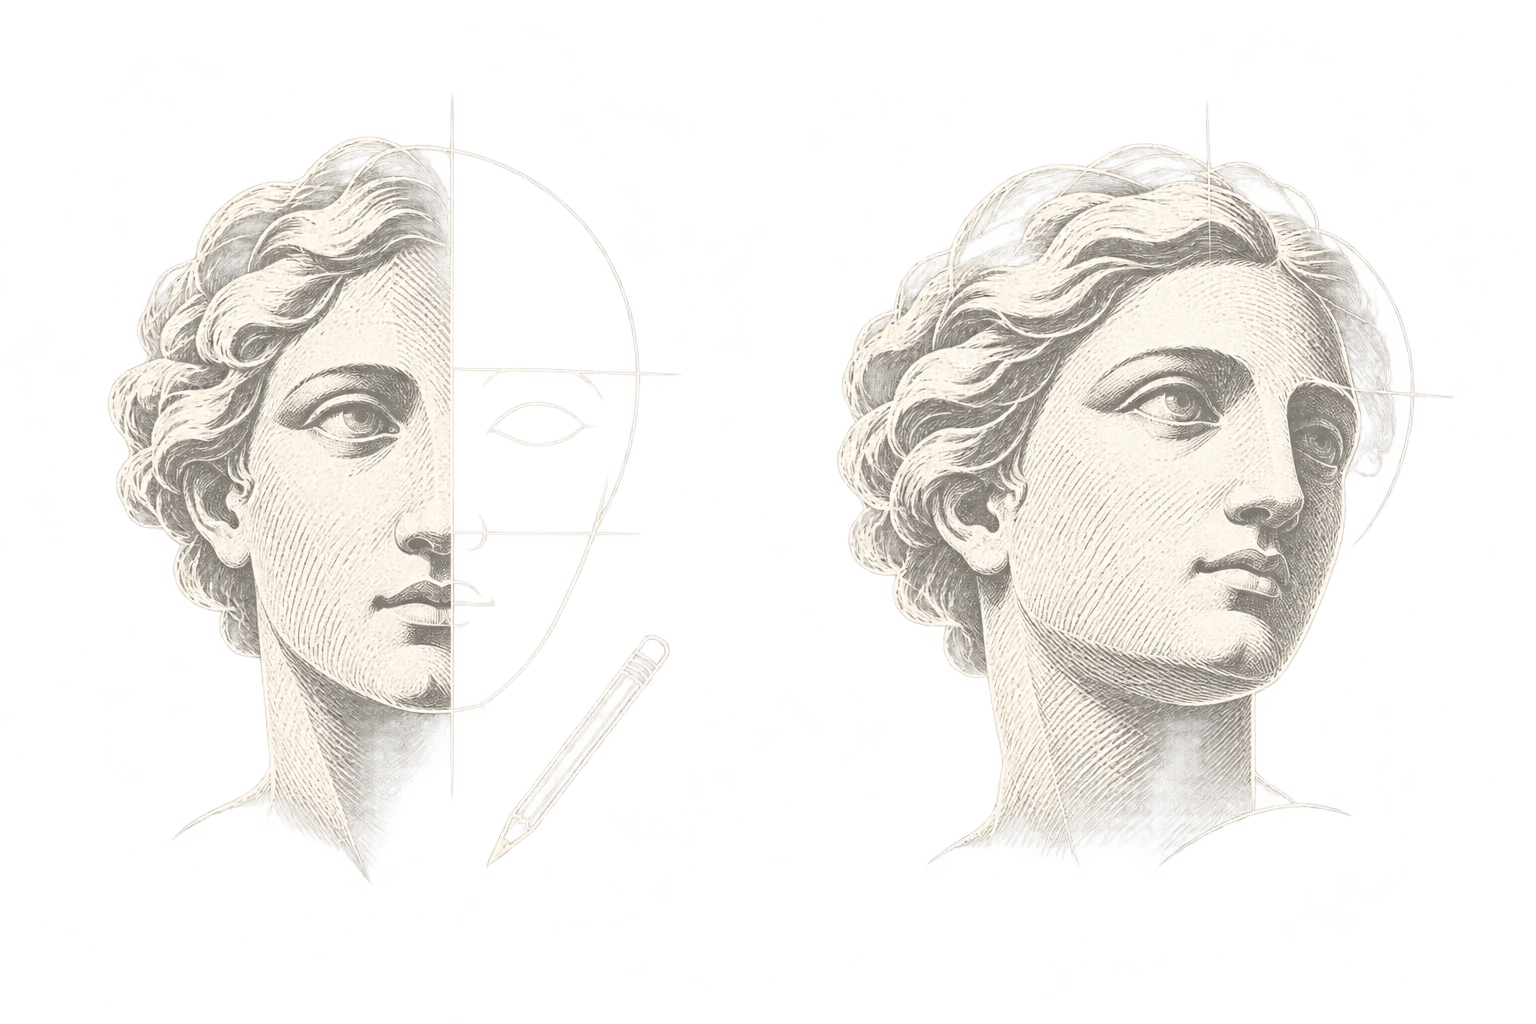
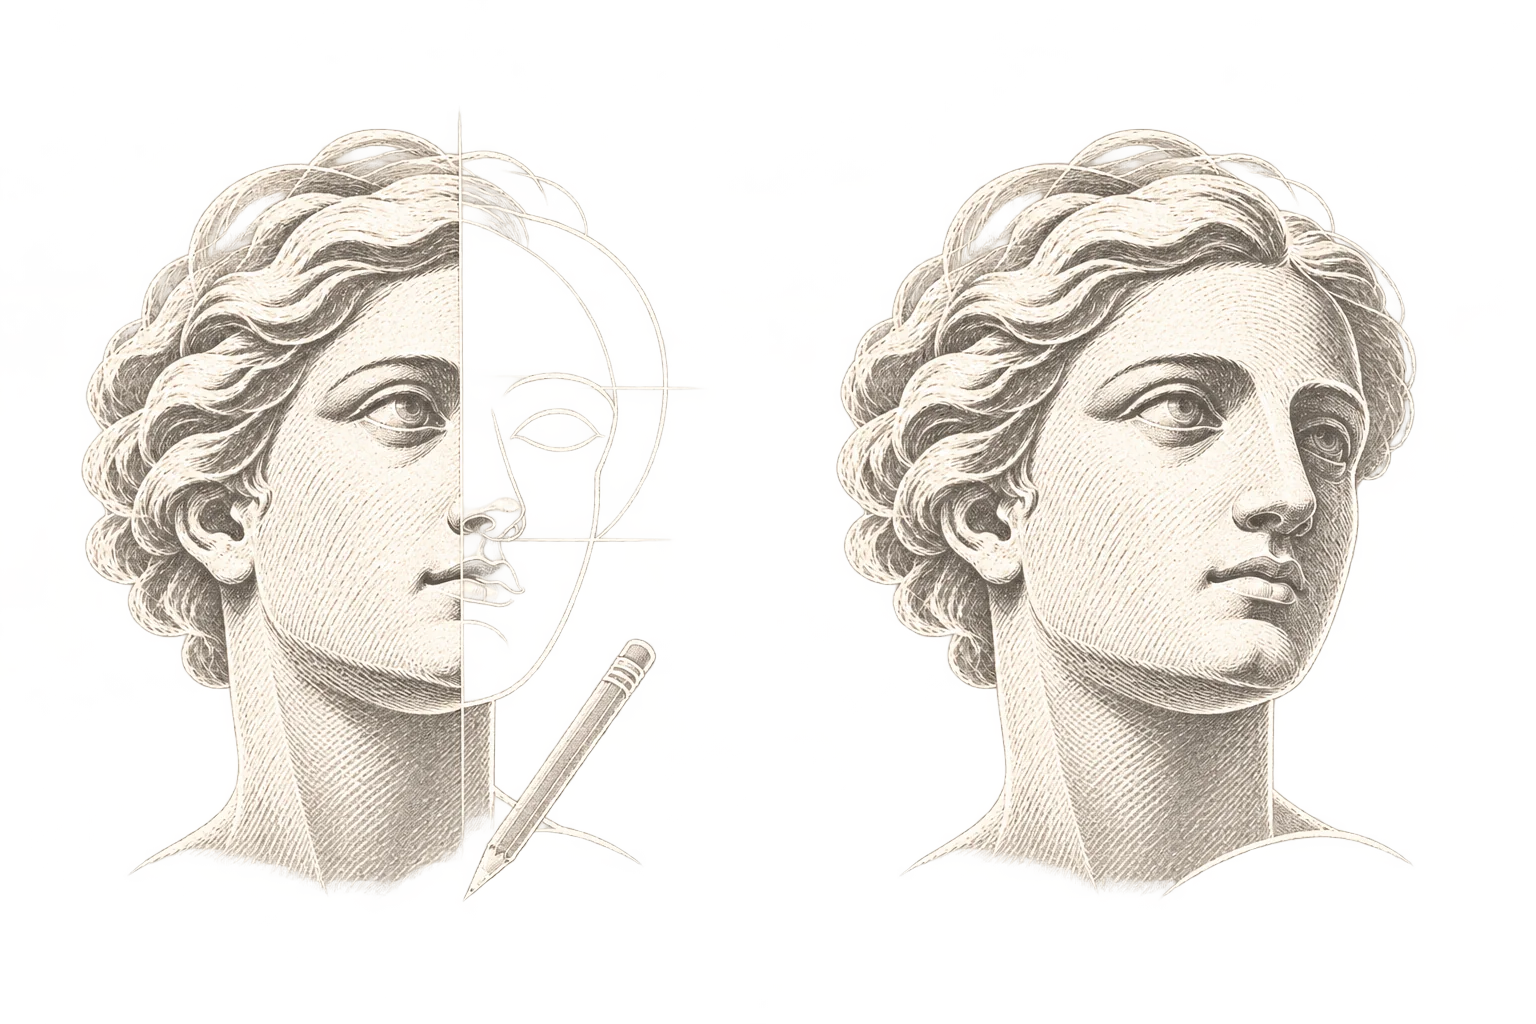
Simplify shared tools labels and match portrait study angles

diff --git a/css/decor.css b/css/decor.css
@@ -335,7 +335,7 @@ body:not([data-layout="side"]) .book-paper::before { content:""; position:absolu
 #standalone-status { color:var(--ink-soft); }
 
 /* Approved portrait studies: illustrations only, never painted over loaded artwork. */
-.empty-portrait { display:block; flex:none; width:150px; height:200px; background-image:url('../art/empty-studies.webp'); background-size:200% 100%; background-repeat:no-repeat; opacity:.96; margin:0 0 4px; }
+.empty-portrait { display:block; flex:none; width:150px; height:200px; background-image:url('../art/empty-studies.webp?v=matched-faces1'); background-size:200% 100%; background-repeat:no-repeat; opacity:.96; margin:0 0 4px; }
 .portrait-drawing { background-position:left center; }
 .portrait-reference { background-position:right center; }
 .pane .dropzone .empty-portrait { display:block; }
@@ -361,7 +361,6 @@ body:not([data-layout="side"]) .book-paper::before { content:""; position:absolu
  body[data-layout="side"] .pane .pane-tools,body[data-layout="side"] .pane .tools-toggle { display:none; }
  body[data-layout="side"] .pane.active { outline:1px solid var(--sinopia); outline-offset:0; }
  body[data-layout="side"] .shared-tools:not([hidden]) { display:flex; flex:1 0 auto; flex-direction:column; gap:10px; min-height:280px; padding:10px 12px; margin-top:8px; border:1px solid var(--rule); background:var(--grain),var(--slip); }
- .shared-tools h2 { font:italic 500 16px/1.2 var(--serif); }
  .shared-selector { display:grid; grid-template-columns:1fr 1fr; border:1px solid var(--rule); border-radius:8px; overflow:hidden; }
  .shared-selector .btn { border:0; border-radius:0; min-height:40px; font:600 16px/1.2 var(--serif); }
  .shared-selector .btn[aria-pressed="true"] { background:#f1dc7a66; box-shadow:inset 0 -2px var(--sinopia); }
@@ -375,7 +374,6 @@ body:not([data-layout="side"]) .book-paper::before { content:""; position:absolu
  .shared-tools .tool:disabled { opacity:.48; }
  .shared-main .tool { border-bottom:1px solid var(--rule); }
  .shared-main .tool:not(:nth-child(3n)) { border-right:1px solid #2a252115; }
- .shared-caption { text-align:center; font:italic 500 12px/1.2 var(--serif); color:var(--ink-soft); }
 }
 /* Supersede earlier compact-layout rules that hid the old SVG empty states. */
 .pane .dropzone .empty-portrait { display:block !important; }

diff --git a/index.html b/index.html
@@ -22,7 +22,7 @@
   <link rel="preconnect" href="https://fonts.gstatic.com" crossorigin>
   <link rel="stylesheet" href="https://fonts.googleapis.com/css2?family=Fraunces:ital,opsz,wght@0,9..144,500;0,9..144,600;1,9..144,500&display=swap">
   <link rel="stylesheet" href="./css/style.css?v=shared1">
-  <link rel="stylesheet" href="./css/decor.css?v=shared1">
+  <link rel="stylesheet" href="./css/decor.css?v=matched-faces1">
   <link rel="stylesheet" href="./css/tips.css">
 </head>
 <body data-layout="side">
@@ -422,8 +422,7 @@
       </section>
     </div>
 
-    <section id="shared-tools" class="shared-tools" data-owner="drawing" aria-labelledby="shared-tools-title" hidden>
-      <h2 id="shared-tools-title">Image tools</h2>
+    <section id="shared-tools" class="shared-tools" data-owner="drawing" aria-label="Image tools" hidden>
       <div class="shared-selector" role="group" aria-label="Editing image">
         <button class="btn" type="button" data-edit="drawing" aria-pressed="true">Drawing</button>
         <button class="btn" type="button" data-edit="reference" aria-pressed="false">Reference</button>
@@ -431,7 +430,6 @@
       <div class="shared-main"></div>
       <div class="shared-secondary"></div>
       <div id="shared-extra" class="shared-extra" hidden></div>
-      <p class="shared-caption" aria-live="polite">Editing Drawing</p>
     </section>
     <div class="overlay-bar" id="overlay-bar" hidden>
       <fieldset class="segmented small" id="compare-mode" aria-label="Compare mode">
@@ -586,7 +584,7 @@
   <script defer src="./js/align-regions.js"></script>
   <script defer src="./js/compare.js"></script>
   <script defer src="./js/sound.js?v=fixes1"></script>
-  <script defer src="./js/app.js?v=shared1"></script>
+  <script defer src="./js/app.js?v=matched-faces1"></script>
   <script defer src="./js/tips.js"></script>
 </body>
 </html>

diff --git a/js/app.js b/js/app.js
@@ -2043,7 +2043,6 @@
       // Give Auto its full name in the shared panel.
       if (action === 'auto') $('span', button).textContent = 'Auto align';
     }
-    $('.shared-caption', sharedPanel).textContent = `Editing ${LABELS[state.active]}`;
   }
 
   /** A layer tab was pressed: it becomes the selected image. In Overlay an empty layer can be selected too (to add a photo). */
